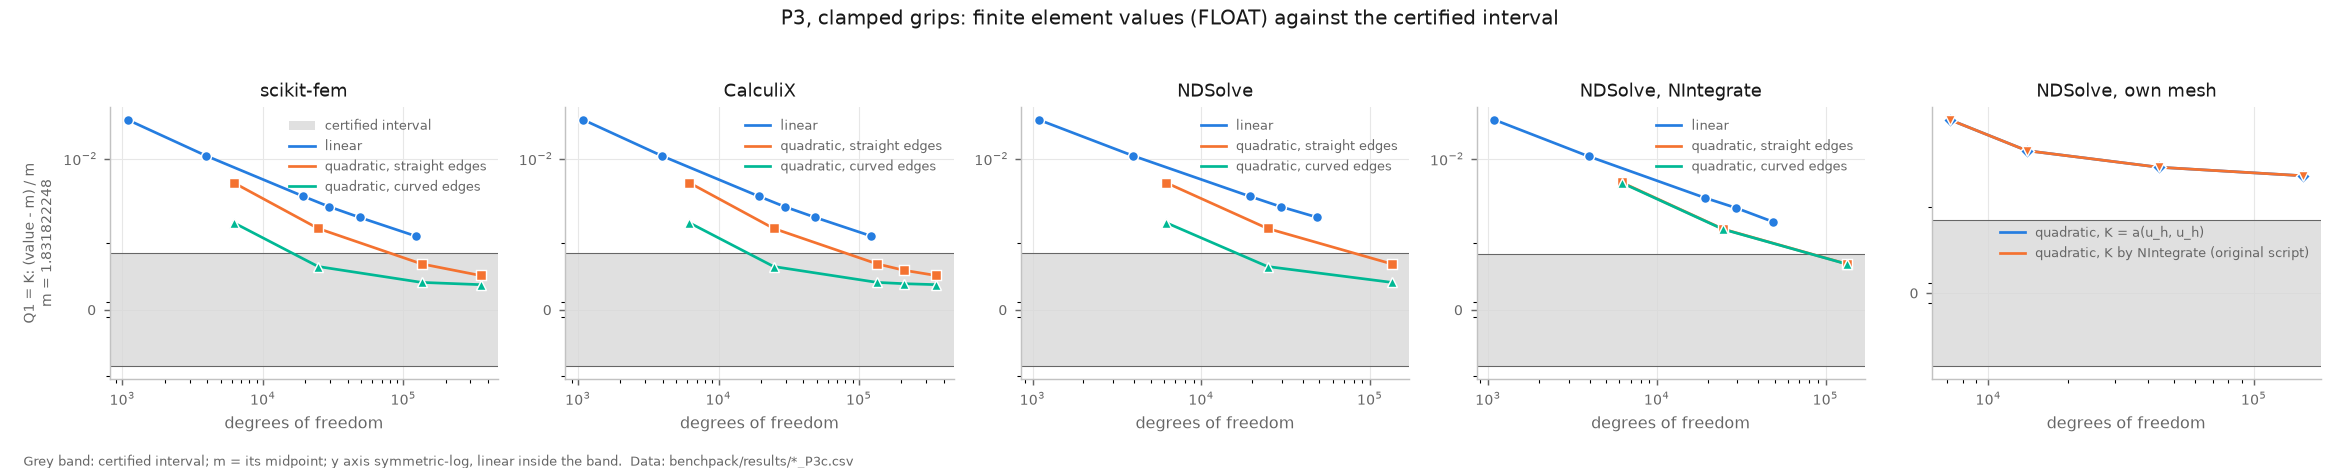
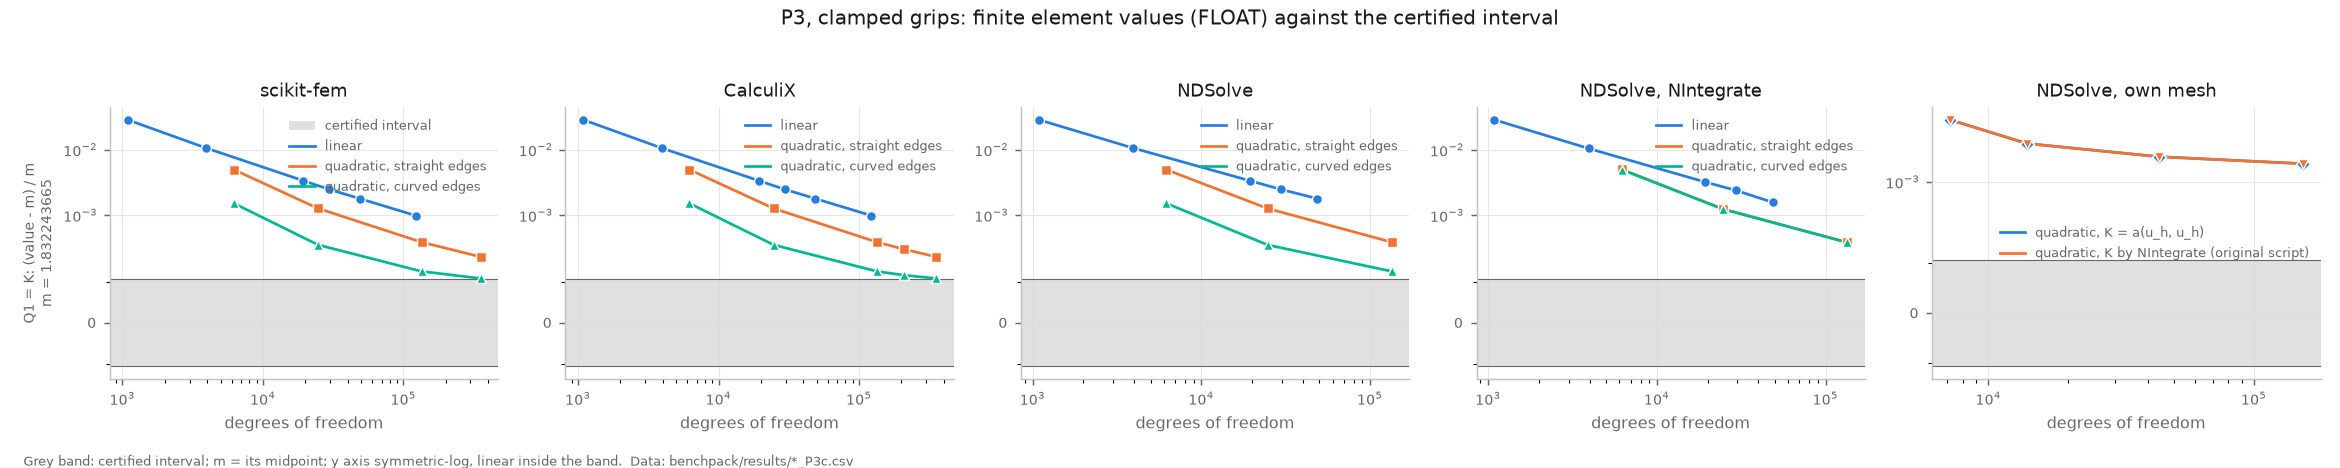
Benchmark pack: P3 verdicts and README against the graded clamped and N12 frictionless intervals

diff --git a/benchpack/results/verdicts_table.md b/benchpack/results/verdicts_table.md
@@ -92,20 +92,20 @@ All values FLOAT; intervals CERTIFIED (P1-nohole: exact); checked by the agent o
 | P2 | Q2 | NDSolve | quadratic, straight edges | 220358 | -0.3094318906 | [-0.3095832144, -0.3093253171] | converges into the interval |
 | P2 | Q2 | NDSolve, NIntegrate | linear | 217630 | -0.3094207854 | [-0.3095832144, -0.3093253171] | not converged (inside, remaining change about 0.00027) |
 | P2 | Q2 | NDSolve, NIntegrate | quadratic, straight edges | 220358 | -0.3094312892 | [-0.3095832144, -0.3093253171] | converges into the interval |
-| P3c | Q1 | scikit-fem | linear | 121887 | 1.834050187 | [1.830434273, 1.833210223] | not converged (above by 0.00084, remaining change about 0.0018) |
-| P3c | Q1 | scikit-fem | quadratic, straight edges | 353841 | 1.832667275 | [1.830434273, 1.833210223] | converges into the interval |
-| P3c | Q1 | scikit-fem | quadratic, curved edges | 353841 | 1.832442072 | [1.830434273, 1.833210223] | converges into the interval |
-| P3c | Q1 | CalculiX | linear | 121887 | 1.83405 | [1.830434273, 1.833210223] | not converged (above by 0.00084, remaining change about 0.0018) |
-| P3c | Q1 | CalculiX | quadratic, straight edges | 353841 | 1.8326672 | [1.830434273, 1.833210223] | converges into the interval |
-| P3c | Q1 | CalculiX | quadratic, curved edges | 353841 | 1.832442 | [1.830434273, 1.833210223] | converges into the interval |
-| P3c | Q1 | NDSolve | linear | 48795 | 1.835518995 | [1.830434273, 1.833210223] | not converged (above by 0.00231, remaining change about 0.0021) |
-| P3c | Q1 | NDSolve | quadratic, straight edges | 134541 | 1.832952575 | [1.830434273, 1.833210223] | not converged (inside, remaining change about 0.0003) |
-| P3c | Q1 | NDSolve | quadratic, curved edges | 134541 | 1.832497651 | [1.830434273, 1.833210223] | converges into the interval |
-| P3c | Q1 | NDSolve, NIntegrate | linear | 48795 | 1.835120315 | [1.830434273, 1.833210223] | not converged (above by 0.00191, remaining change about 0.0073) |
-| P3c | Q1 | NDSolve, NIntegrate | quadratic, straight edges | 134541 | 1.832950814 | [1.830434273, 1.833210223] | not converged (inside, remaining change about 0.00028) |
-| P3c | Q1 | NDSolve, NIntegrate | quadratic, curved edges | 134541 | 1.832947492 | [1.830434273, 1.833210223] | not converged (inside, remaining change about 0.00028) |
-| P3c | Q1 | NDSolve, own mesh | quadratic, K = a(u_h, u_h) | 152883 | 1.83532758 | [1.830434273, 1.833210223] | lands outside: above by 0.00212 (0.0012 relative) |
-| P3c | Q1 | NDSolve, own mesh | quadratic, K by NIntegrate (original script) | 152883 | 1.83532758 | [1.830434273, 1.833210223] | lands outside: above by 0.00212 (0.0012 relative) |
+| P3c | Q1 | scikit-fem | linear | 121887 | 1.834050187 | [1.832048486, 1.832438844] | not converged (above by 0.00161, remaining change about 0.0018) |
+| P3c | Q1 | scikit-fem | quadratic, straight edges | 353841 | 1.832667275 | [1.832048486, 1.832438844] | not converged (above by 0.000228, remaining change about 0.00023) |
+| P3c | Q1 | scikit-fem | quadratic, curved edges | 353841 | 1.832442072 | [1.832048486, 1.832438844] | not converged (above by 3.23e-06, remaining change about 3.5e-05) |
+| P3c | Q1 | CalculiX | linear | 121887 | 1.83405 | [1.832048486, 1.832438844] | not converged (above by 0.00161, remaining change about 0.0018) |
+| P3c | Q1 | CalculiX | quadratic, straight edges | 353841 | 1.8326672 | [1.832048486, 1.832438844] | not converged (above by 0.000228, remaining change about 0.00025) |
+| P3c | Q1 | CalculiX | quadratic, curved edges | 353841 | 1.832442 | [1.832048486, 1.832438844] | not converged (above by 3.16e-06, remaining change about 3.5e-05) |
+| P3c | Q1 | NDSolve | linear | 48795 | 1.835518995 | [1.832048486, 1.832438844] | not converged (above by 0.00308, remaining change about 0.0021) |
+| P3c | Q1 | NDSolve | quadratic, straight edges | 134541 | 1.832952575 | [1.832048486, 1.832438844] | not converged (above by 0.000514, remaining change about 0.0003) |
+| P3c | Q1 | NDSolve | quadratic, curved edges | 134541 | 1.832497651 | [1.832048486, 1.832438844] | not converged (above by 5.88e-05, remaining change about 5.1e-05) |
+| P3c | Q1 | NDSolve, NIntegrate | linear | 48795 | 1.835120315 | [1.832048486, 1.832438844] | not converged (above by 0.00268, remaining change about 0.0073) |
+| P3c | Q1 | NDSolve, NIntegrate | quadratic, straight edges | 134541 | 1.832950814 | [1.832048486, 1.832438844] | not converged (above by 0.000512, remaining change about 0.00028) |
+| P3c | Q1 | NDSolve, NIntegrate | quadratic, curved edges | 134541 | 1.832947492 | [1.832048486, 1.832438844] | not converged (above by 0.000509, remaining change about 0.00028) |
+| P3c | Q1 | NDSolve, own mesh | quadratic, K = a(u_h, u_h) | 152883 | 1.83532758 | [1.832048486, 1.832438844] | lands outside: above by 0.00289 (0.0016 relative) |
+| P3c | Q1 | NDSolve, own mesh | quadratic, K by NIntegrate (original script) | 152883 | 1.83532758 | [1.832048486, 1.832438844] | lands outside: above by 0.00289 (0.0016 relative) |
 | P3f | Q1 | scikit-fem | linear | 48969 | 1.758638813 | [1.757411214, 1.757622167] | not converged (above by 0.00102, remaining change about 0.001) |
 | P3f | Q1 | scikit-fem | quadratic, straight edges | 367668 | 1.757723288 | [1.757411214, 1.757622167] | not converged (above by 0.000101, remaining change about 9.7e-05) |
 | P3f | Q1 | scikit-fem | quadratic, curved edges | 367668 | 1.757622405 | [1.757411214, 1.757622167] | not converged (above by 2.38e-07, remaining change about 1.1e-06) |

diff --git a/benchpack/results/VERDICTS.md b/benchpack/results/VERDICTS.md
@@ -23,21 +23,22 @@ on P3 with clamped grips (3 levels; the fourth is above the 4 GB memory cap, rec
 | P1c | Q2 | [1.045047061, 1.046096446] | all elements: converge into the interval (1.0455883) | all elements: converge into | all elements: converge into |
 | P2 | K | [0.1226044392, 0.1226073846] | quadratic: converges into the interval (0.1226048806 at 866 342 DOF); linear: not converged (above) | quadratic: converges into (0.1226053 at 220 358 DOF); linear: not converged (above) | quadratic: converges into the interval (0.1226048844 at 220 358 DOF); linear: not converged (above) |
 | P2 | Q2 | [-0.3095832144, -0.3093253171] | quadratic and linear: converge into the interval (-0.3094319; linear -0.3094449) | quadratic and linear: converge into | quadratic and linear: converge into the interval |
-| P3 clamped | K | [1.830434273, 1.833210223] | quadratic (curved and straight): converges into the interval (curved 1.832442 at 353 841 DOF); linear: not converged (above) | same values to 7 digits | gmsh meshes: the values of scikit-fem (to 1e-12); quadratic curved: converges into the interval (1.832498 at 134 541 DOF); quadratic straight: not converged (inside); linear: not converged (above). Own mesh (ToElementMesh): lands outside, above by 0.12 % (finding 1) |
+| P3 clamped | K | [1.832048486, 1.832438844] | quadratic curved: not converged, above by 3.2e-6 at 353 841 DOF (1.832442072) and still falling (remaining change about 3.5e-5, so the limit lies inside); quadratic straight and linear: not converged (above) | the same values to 7 digits; the same verdicts | gmsh meshes: quadratic curved: not converged, above by 5.9e-5 at 134 541 DOF (1.832498); quadratic straight and linear: not converged (above). Own mesh (ToElementMesh): lands outside, above by 0.16 % (finding 1) |
 | P3 frictionless | K | [1.757411214, 1.757622167] | quadratic curved: not converged, above by 2.4e-7 at 367 668 DOF (1.757622405) with an estimated remaining decrease of 1.1e-6, so the extrapolated value 1.7576213 lies inside; quadratic straight and linear: not converged (above) | same values to 7 digits; the same verdicts | gmsh meshes: the values of scikit-fem; quadratic curved: not converged (above by 7.6e-6 at 85 194 DOF). Own mesh: lands outside, above by 0.12 % (finding 1) |
 
 No value of K from scikit-fem, CalculiX or NDSolve's assembled system lies below a certified lower end; the NIntegrate
 post-processing of NDSolve does (finding 2). The converged quadratic values lie in the upper part of the K intervals
-of P1, P1c and P3 clamped and in the lower part of P2's (0.1226048806, 4.4e-7 above the lower end). For P3 with
-frictionless grips the certified interval (width 2.1e-4) is narrower than the discretisation error reachable here
-under the 4 GB cap: the finest quadratic value is 2.4e-7 above the upper end and still falling. The finite element
+of P1 and P1c and in the lower part of P2's (0.1226048806, 4.4e-7 above the lower end). For P3 the
+certified intervals (relative widths 1.2e-4 frictionless, 2.1e-4 clamped) are narrower than the discretisation error
+reachable here under the 4 GB cap: the finest quadratic values are 2.4e-7 (frictionless) and 3.2e-6 (clamped) above
+the upper ends and still falling. The finite element
 values are upper bounds on meshes that contain the body, so this is consistent with the certificate (FLOAT, not a
 certificate).
 
 ## Before calling anything a defect
 
 1. **NDSolve with its own mesh, P3: lands outside, above by 0.12 % (clamped: 1.835328 against the upper end
-   1.833210) and 0.12 % (frictionless: 1.759671 against 1.757622).**
+   1.832439) and 0.12 % (frictionless: 1.759671 against 1.757622).**
    Polygonal geometry, not a solver defect. The meshed octant has volume 0.93518 against 0.93455 exactly
    (excess 6.27e-4, the cavity about 1 % too small) at every MaxCellMeasure from 1e-2 to 5e-5: ToElementMesh
    tessellates the sphere once and does not refine it with MaxCellMeasure; "MaxBoundaryCellMeasure" refines the

diff --git a/benchpack/README.md b/benchpack/README.md
@@ -16,7 +16,7 @@ still be wrong.
 | [P1](problems/P1.md) | square plate with a circular hole, pulled by frictionless grips | stiffness K; mean of σ<sub>xx</sub> over a small patch at the edge of the hole | 0.5912009869 ≤ K ≤ 0.5912009882; 1.032737550 ≤ Q2 ≤ 1.032768058 |
 | [P1c](problems/P1.md) | the same plate, clamped grips | the same | 0.5957196143 ≤ K ≤ 0.5957222828; 1.045047061 ≤ Q2 ≤ 1.046096446 |
 | [P2](problems/P2.md) | L-bracket, clamped on one edge, the opposite grip moved | stiffness K; mean of σ<sub>xx</sub> over a square at the re-entrant corner | 0.1226044392 ≤ K ≤ 0.1226073846; −0.3095832144 ≤ Q2 ≤ −0.3093253171 |
-| [P3](problems/P3.md) | cube with a spherical cavity, pulled by rigid grips | stiffness K | clamped: 1.81732246 ≤ K ≤ 1.83348613; frictionless: 1.74510549 ≤ K ≤ 1.75827651 |
+| [P3](problems/P3.md) | cube with a spherical cavity, pulled by rigid grips | stiffness K | clamped: 1.832048486 ≤ K ≤ 1.832438844; frictionless: 1.757411214 ≤ K ≤ 1.757622167 |
 
 All intervals are CERTIFIED and re-checked by the independent checker; the arguments have been checked by their
 author only. Certificates are in `certificates/` (format in `certificates/FORMAT.md`), the method and derivations in
@@ -56,6 +56,7 @@ entirely the polygonal approximation of the hole (`harness/README.md` has the co
 cd benchpack/checker
 python check.py ../certificates/P1_frictionless_N16_p9        # about a minute; P1c, P2 likewise
 python tests.py
+python p3check.py ../certificates/P3_frictionless_N12_p4_exact   # P3 (see checker/README.md)
 
 cd Reference/Curved3D                                         # P3, from the repository root
 python verify.py 24 frictionless certificates/psi_frictionless_N24.npz certificates/v_frictionless_N24.npz 3 5
